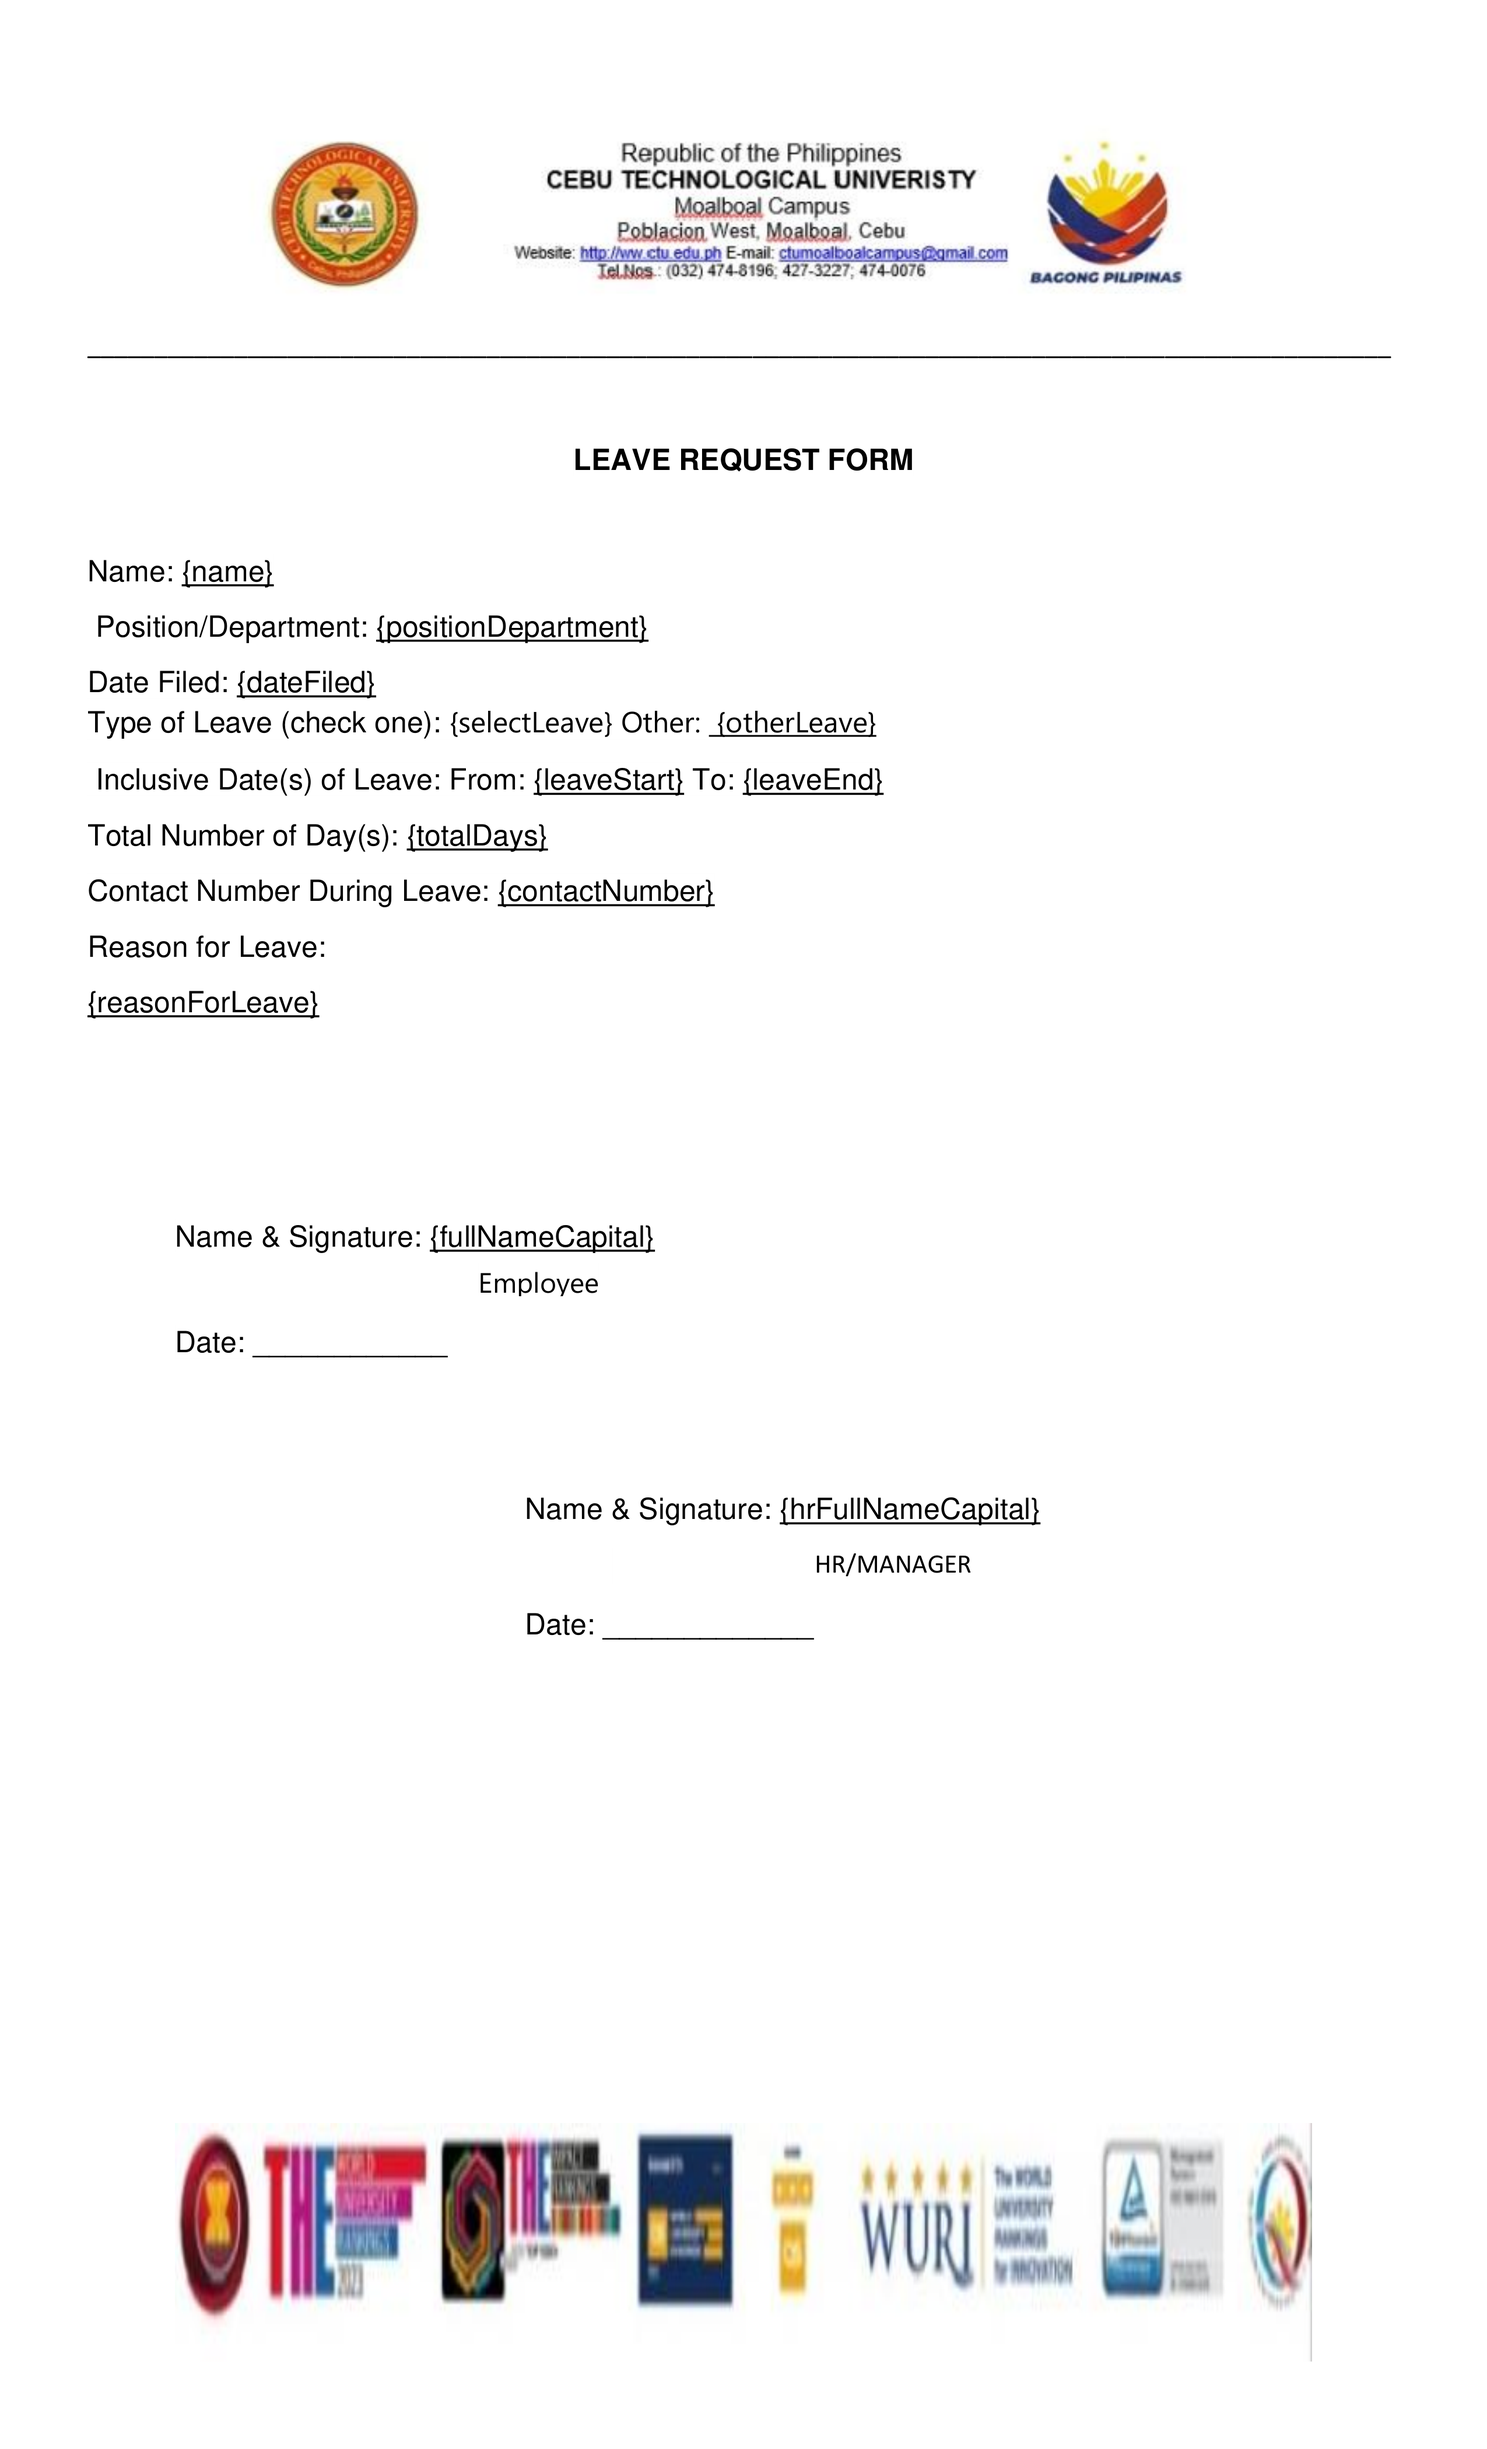
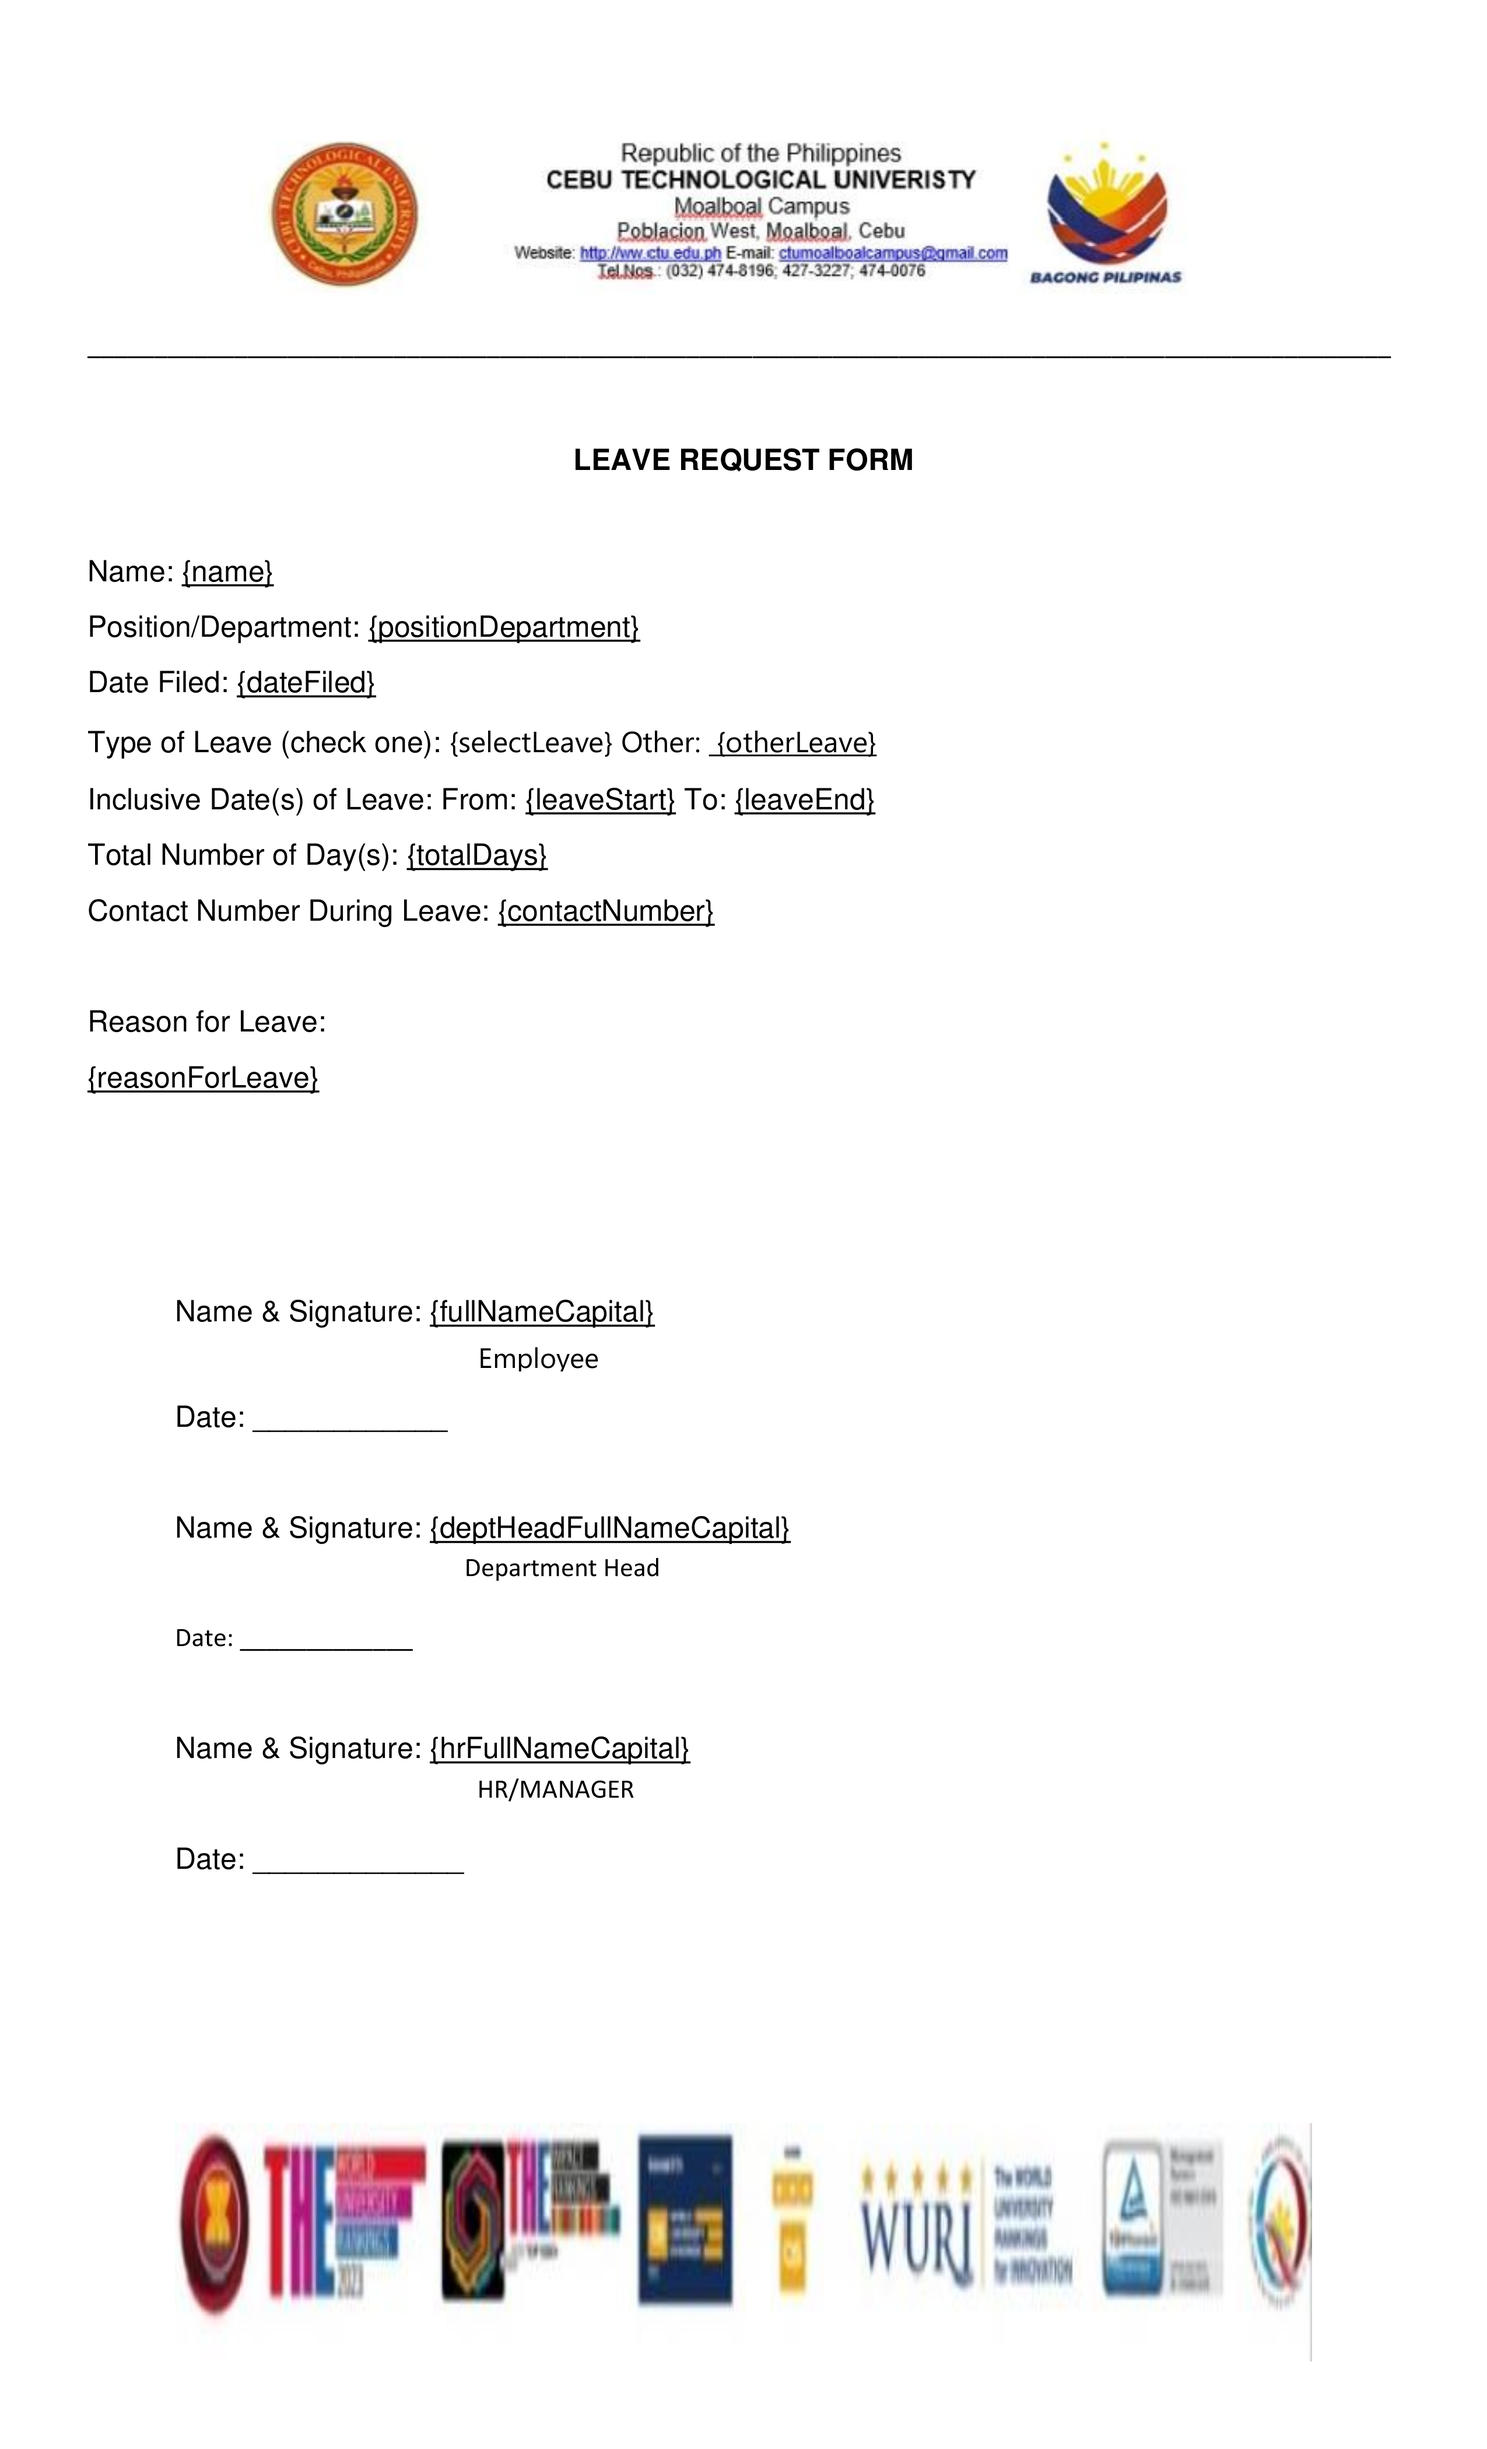
added: dept head in the template

diff --git a/src/routes/(protected)/(app)/admin/requests/history/+page.server.ts b/src/routes/(protected)/(app)/admin/requests/history/+page.server.ts
@@ -1,9 +1,14 @@
-import type { LeaveHistory } from '$lib/types/data';
+import type { Department, LeaveHistory } from '$lib/types/data';
 import { convertCalendarDate, getTotalDays } from '$lib/utils/helper';
 import type { PageServerLoad } from './$types';
 
 export const load = (async ({locals}) => {
-    const { data, error } = await locals.supabase
+
+    const [
+        {data: leave_histories, error: leave_histories_error},
+        {data: departments}
+    ] = await Promise.all([
+        locals.supabase
             .from('filed_leave')
             .select(`*, 
                 hr: employees!hr_uuid( employee_name ), 
@@ -13,14 +18,30 @@ export const load = (async ({locals}) => {
                  )`
             )
             .in('status', ['Approve', 'Decline'])
-            .order('date_filed', { ascending: false })
-    
-        
-        let leaveHistory: LeaveHistory[] = []
-          if(!error){
-            console.log({data})
+            .order('date_filed', { ascending: false }),
+        locals.supabase
+            .from('departments')
+            .select(`*, 
+                head_info: employees!dept_head( employee_name )
+                `)
+    ])
 
-            leaveHistory = data?.map( i => ({
+
+        const listOfDepartments: Department[] = departments?.map(i => ({
+            uuid: i?.uuid,
+            name: i?.name,
+            created_at: i?.created_at,
+            head_uuid: i?.dept_head,
+            head_name: i?.head_info?.employee_name
+        })) || []
+
+
+    
+        let leaveHistory: LeaveHistory[] = []
+          if(!leave_histories_error){
+            console.log({leave_histories}) 
+
+            leaveHistory = leave_histories?.map( i => ({
                 employee_uuid: i?.employee_info?.uuid,
                 employee_name: i?.employee_info?.employee_name,
                 employee_id: i?.employee_info?.employee_id,
@@ -43,7 +64,8 @@ export const load = (async ({locals}) => {
                 status: i?.status,
                 processed_at: i?.processed_at,
                 decline_reason: i?.decline_reason,
-                leave_points_snapshot: i?.leave_points_snapshot
+                leave_points_snapshot: i?.leave_points_snapshot,
+                dept_head_name: listOfDepartments.find(dept => dept.name === i?.employee_info?.department_info?.name )?.head_name ?? ''
             }))
             }
 

diff --git a/src/routes/(protected)/(app)/(client)/leave-request/history/+page.server.ts b/src/routes/(protected)/(app)/(client)/leave-request/history/+page.server.ts
@@ -10,17 +10,27 @@ export const load = (async ({locals, parent}) => {
         return { leaveHistory: [] };
     }
 
-    const { data, error } = await locals.supabase
-            .from('filed_leave')
-            .select(`*, 
-                hr_info: employees!hr_uuid( employee_name ), 
-                leave_name: types_of_leave!type_of_leave( name ),
-                employee_info: employees!employee_uuid( employee_name, position, employee_id, email, profile_pic_url, uuid,
-                    department_info: departments!department(name) )`
-            )
-            .in('status', ['Approve', 'Decline'])
-            .eq('employee_uuid', employee.uuid)
-            .order('date_filed', { ascending: false })
+    const [
+        { data, error },
+        { data: dept_head}
+    ] = await Promise.all([
+            locals.supabase
+                .from('filed_leave')
+                .select(`*, 
+                    hr_info: employees!hr_uuid( employee_name ), 
+                    leave_name: types_of_leave!type_of_leave( name ),
+                    employee_info: employees!employee_uuid( employee_name, position, employee_id, email, profile_pic_url, uuid,
+                        department_info: departments!department(name) )`
+                )
+                .in('status', ['Approve', 'Decline'])
+                .eq('employee_uuid', employee.uuid)
+                .order('date_filed', { ascending: false }),
+            locals.supabase
+                .from('departments')
+                .select('info: employees!dept_head( employee_name )')
+                .eq('uuid', employee.department_uuid)
+                .single()
+        ])
     
         
         let leaveHistory: LeaveHistory[] = []
@@ -50,7 +60,8 @@ export const load = (async ({locals, parent}) => {
                 status: i?.status,
                 processed_at: i?.processed_at,
                 decline_reason: i?.decline_reason,
-                leave_points_snapshot: i?.leave_points_snapshot
+                leave_points_snapshot: i?.leave_points_snapshot,
+                dept_head_name: dept_head?.info?.employee_name ?? ''
             })) 
             }
 

diff --git a/src/routes/(protected)/api/generate-document/+server.ts b/src/routes/(protected)/api/generate-document/+server.ts
@@ -41,10 +41,11 @@ export const POST: RequestHandler = async ({ request, locals }) => {
             "contactNumber": data.contact_number,
             "reasonForLeave": data.reason,
             "fullNameCapital": String(data.employee_name).toUpperCase(),
+            "deptHeadFullNameCapital": String(data.dept_head_name).toLocaleUpperCase(),
             "hrFullNameCapital": String(data.hr_name).toUpperCase(),
         });
 
-        //Generate as blob
+        //Generate as blobs
         const blob = doc.getZip().generate({
         type: 'blob',
         mimeType: 'application/vnd.openxmlformats-officedocument.wordprocessingml.document',

diff --git a/src/routes/(protected)/(app)/(client)/approve-request/history/+page.server.ts b/src/routes/(protected)/(app)/(client)/approve-request/history/+page.server.ts
@@ -61,7 +61,8 @@ export const load = (async ({locals, parent}) => {
                 status: i?.status,
                 processed_at: i?.processed_at,
                 decline_reason: i?.decline_reason,
-                leave_points_snapshot: i?.leave_points_snapshot
+                leave_points_snapshot: i?.leave_points_snapshot,
+                dept_head_name: employee.name
             }))
             }
 

diff --git a/src/routes/(protected)/(app)/admin/settings/template/+page.svelte b/src/routes/(protected)/(app)/admin/settings/template/+page.svelte
@@ -90,6 +90,11 @@
     "description": "Printed name for employee signature"
   },
   {
+    "name": "Department Head Name (Capitalized)",
+    "placeholder": "{deptHeadFullNameCapital}",
+    "description": "Printed name for department head signature"
+  },
+  {
     "name": "HR / Manager Name (Capitalized)",
     "placeholder": "{hrFullNameCapital}",
     "description": "Printed name for HR or manager approval"

diff --git a/src/lib/types/data.ts b/src/lib/types/data.ts
@@ -131,6 +131,7 @@ export interface LeaveHistory extends AdminFiledLeaveInfo {
     processed_at: string;
     decline_reason: string;
     leave_points_snapshot: string;
+    dept_head_name: string;
 }
 
 export interface AdminDashboardInfo {

diff --git a/src/routes/(protected)/(app)/admin/requests/history/+page.svelte b/src/routes/(protected)/(app)/admin/requests/history/+page.svelte
@@ -14,6 +14,9 @@
     let { data }: PageProps = $props();
     let { leaveHistory } = $derived(data)
 
+	// svelte-ignore state_referenced_locally
+	console.log({leaveHistory})
+
 
 </script>
 

diff --git a/src/routes/(protected)/(app)/(client)/leave-request/history/+page.svelte b/src/routes/(protected)/(app)/(client)/leave-request/history/+page.svelte
@@ -11,6 +11,7 @@
     ];
     let { data }: PageProps = $props();
     let { leaveHistory } = $derived(data)
+    
 
 </script>
 
